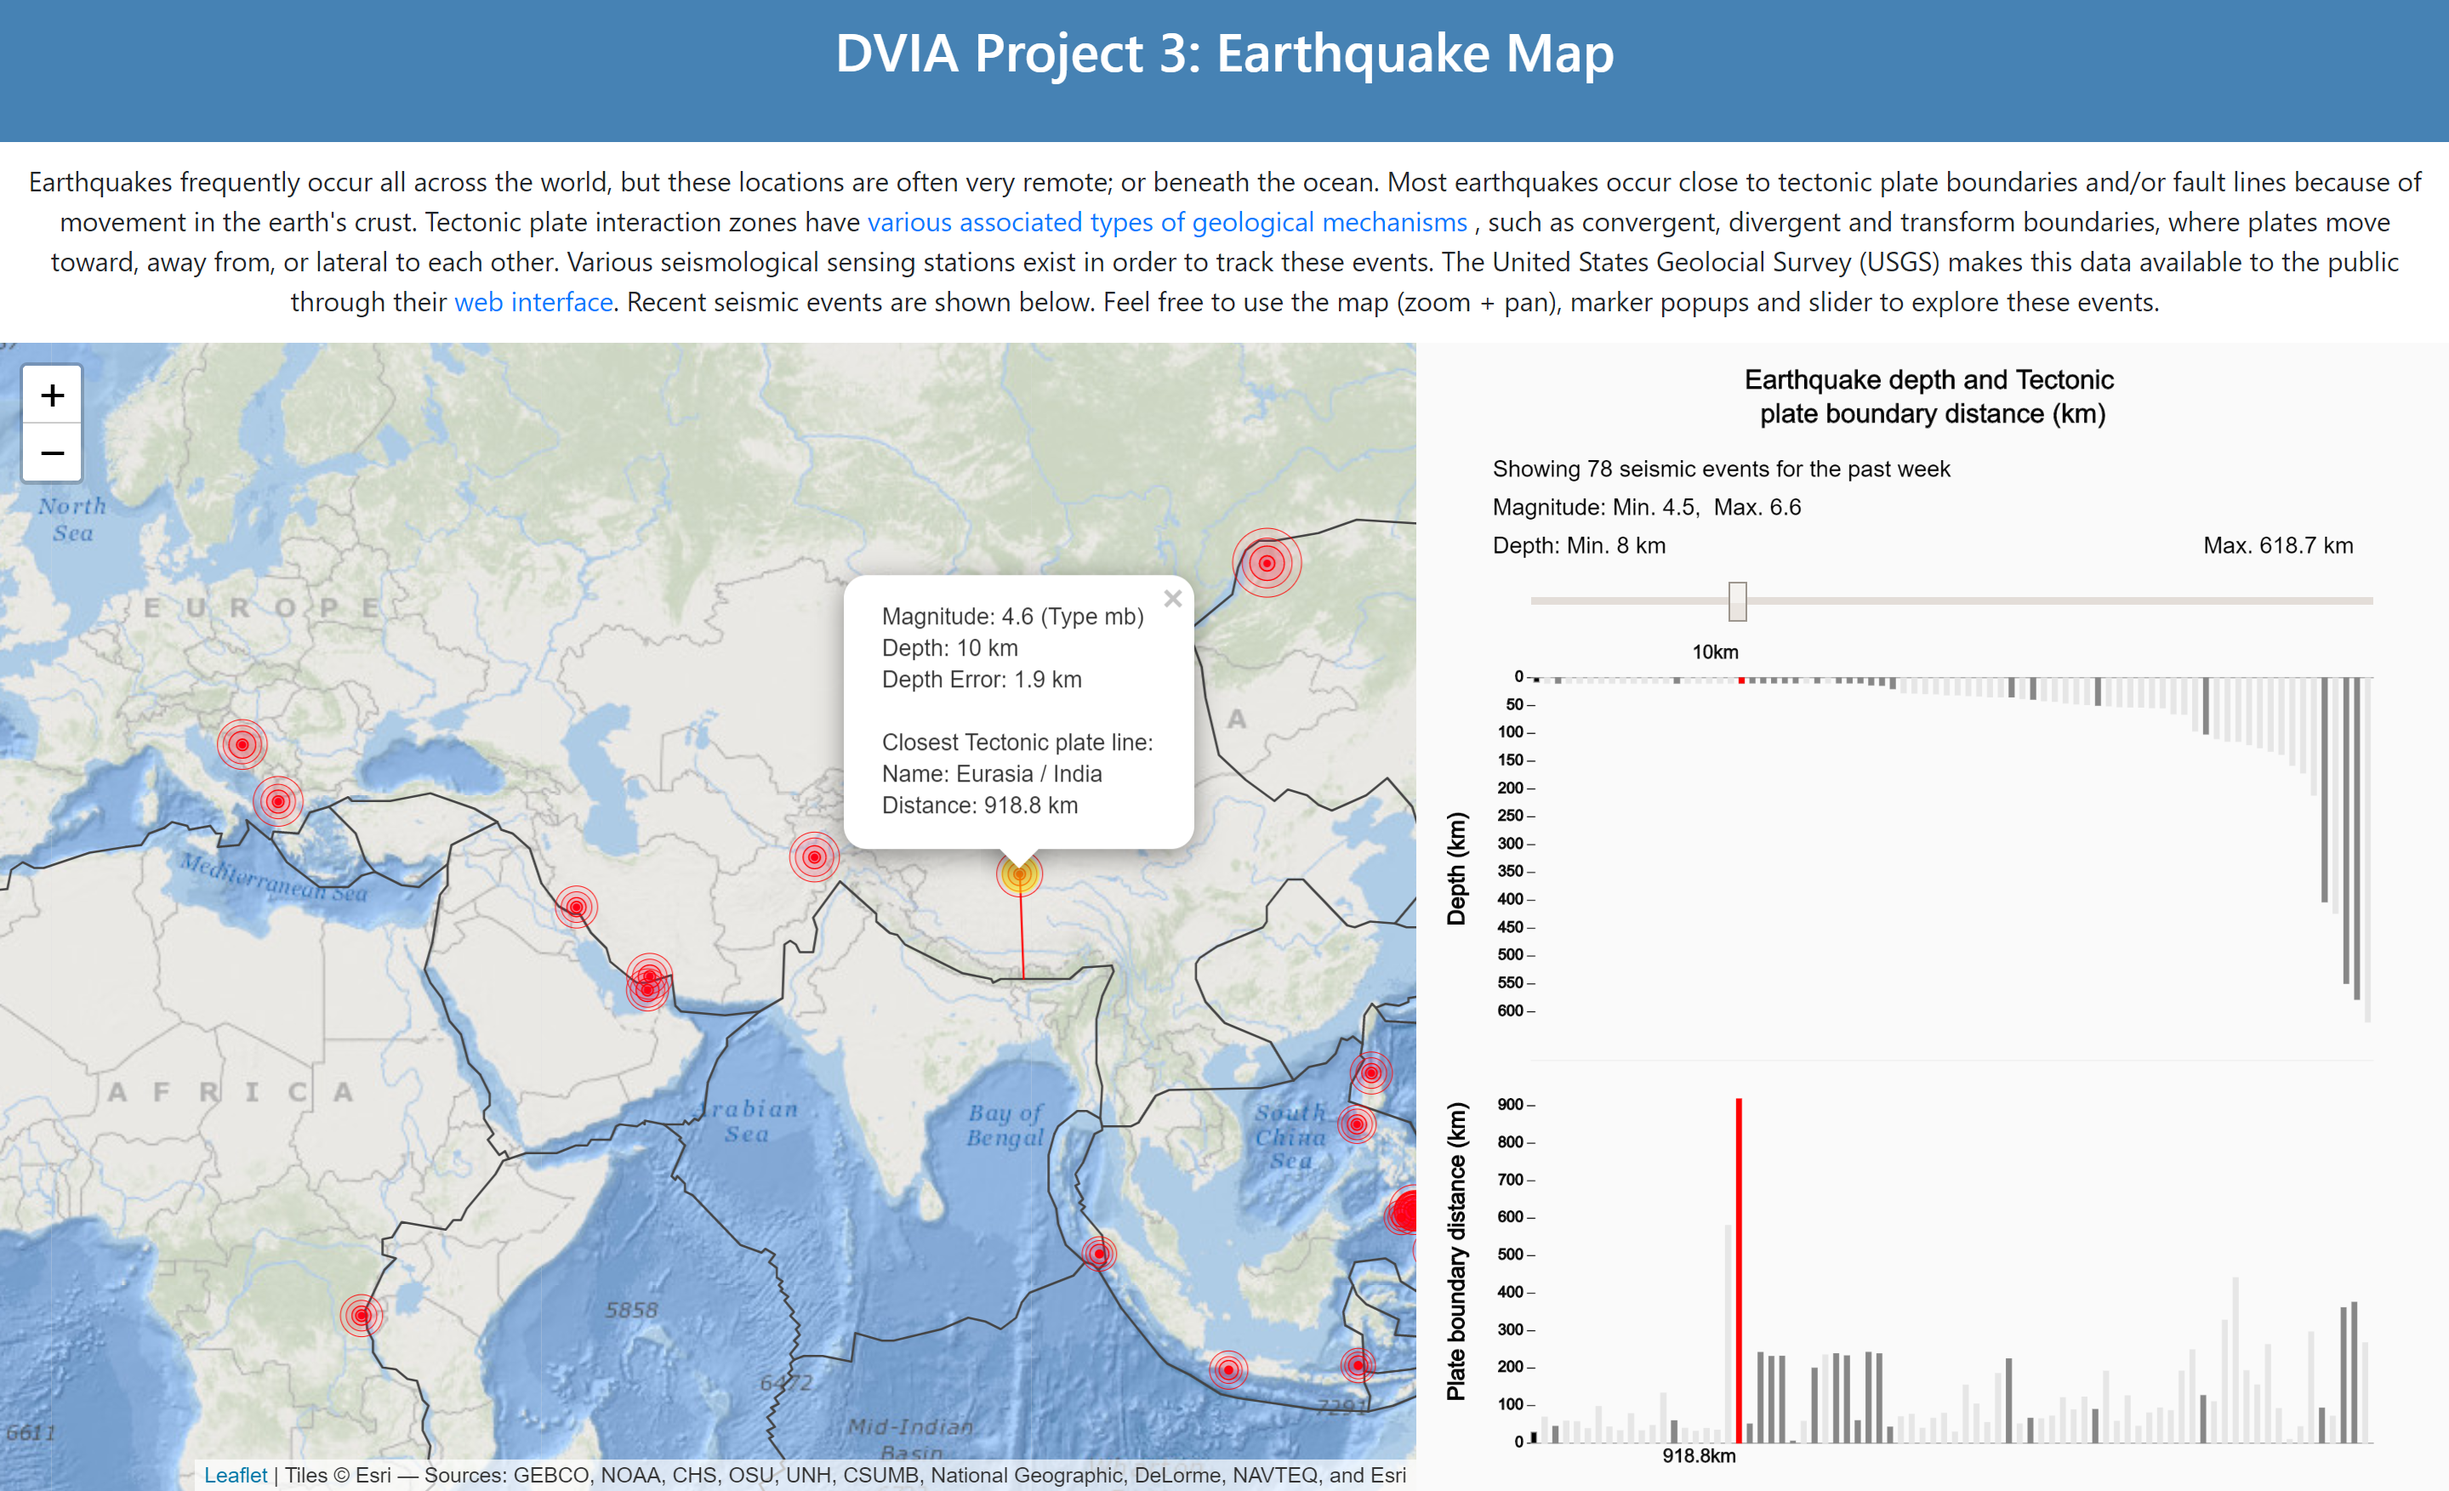
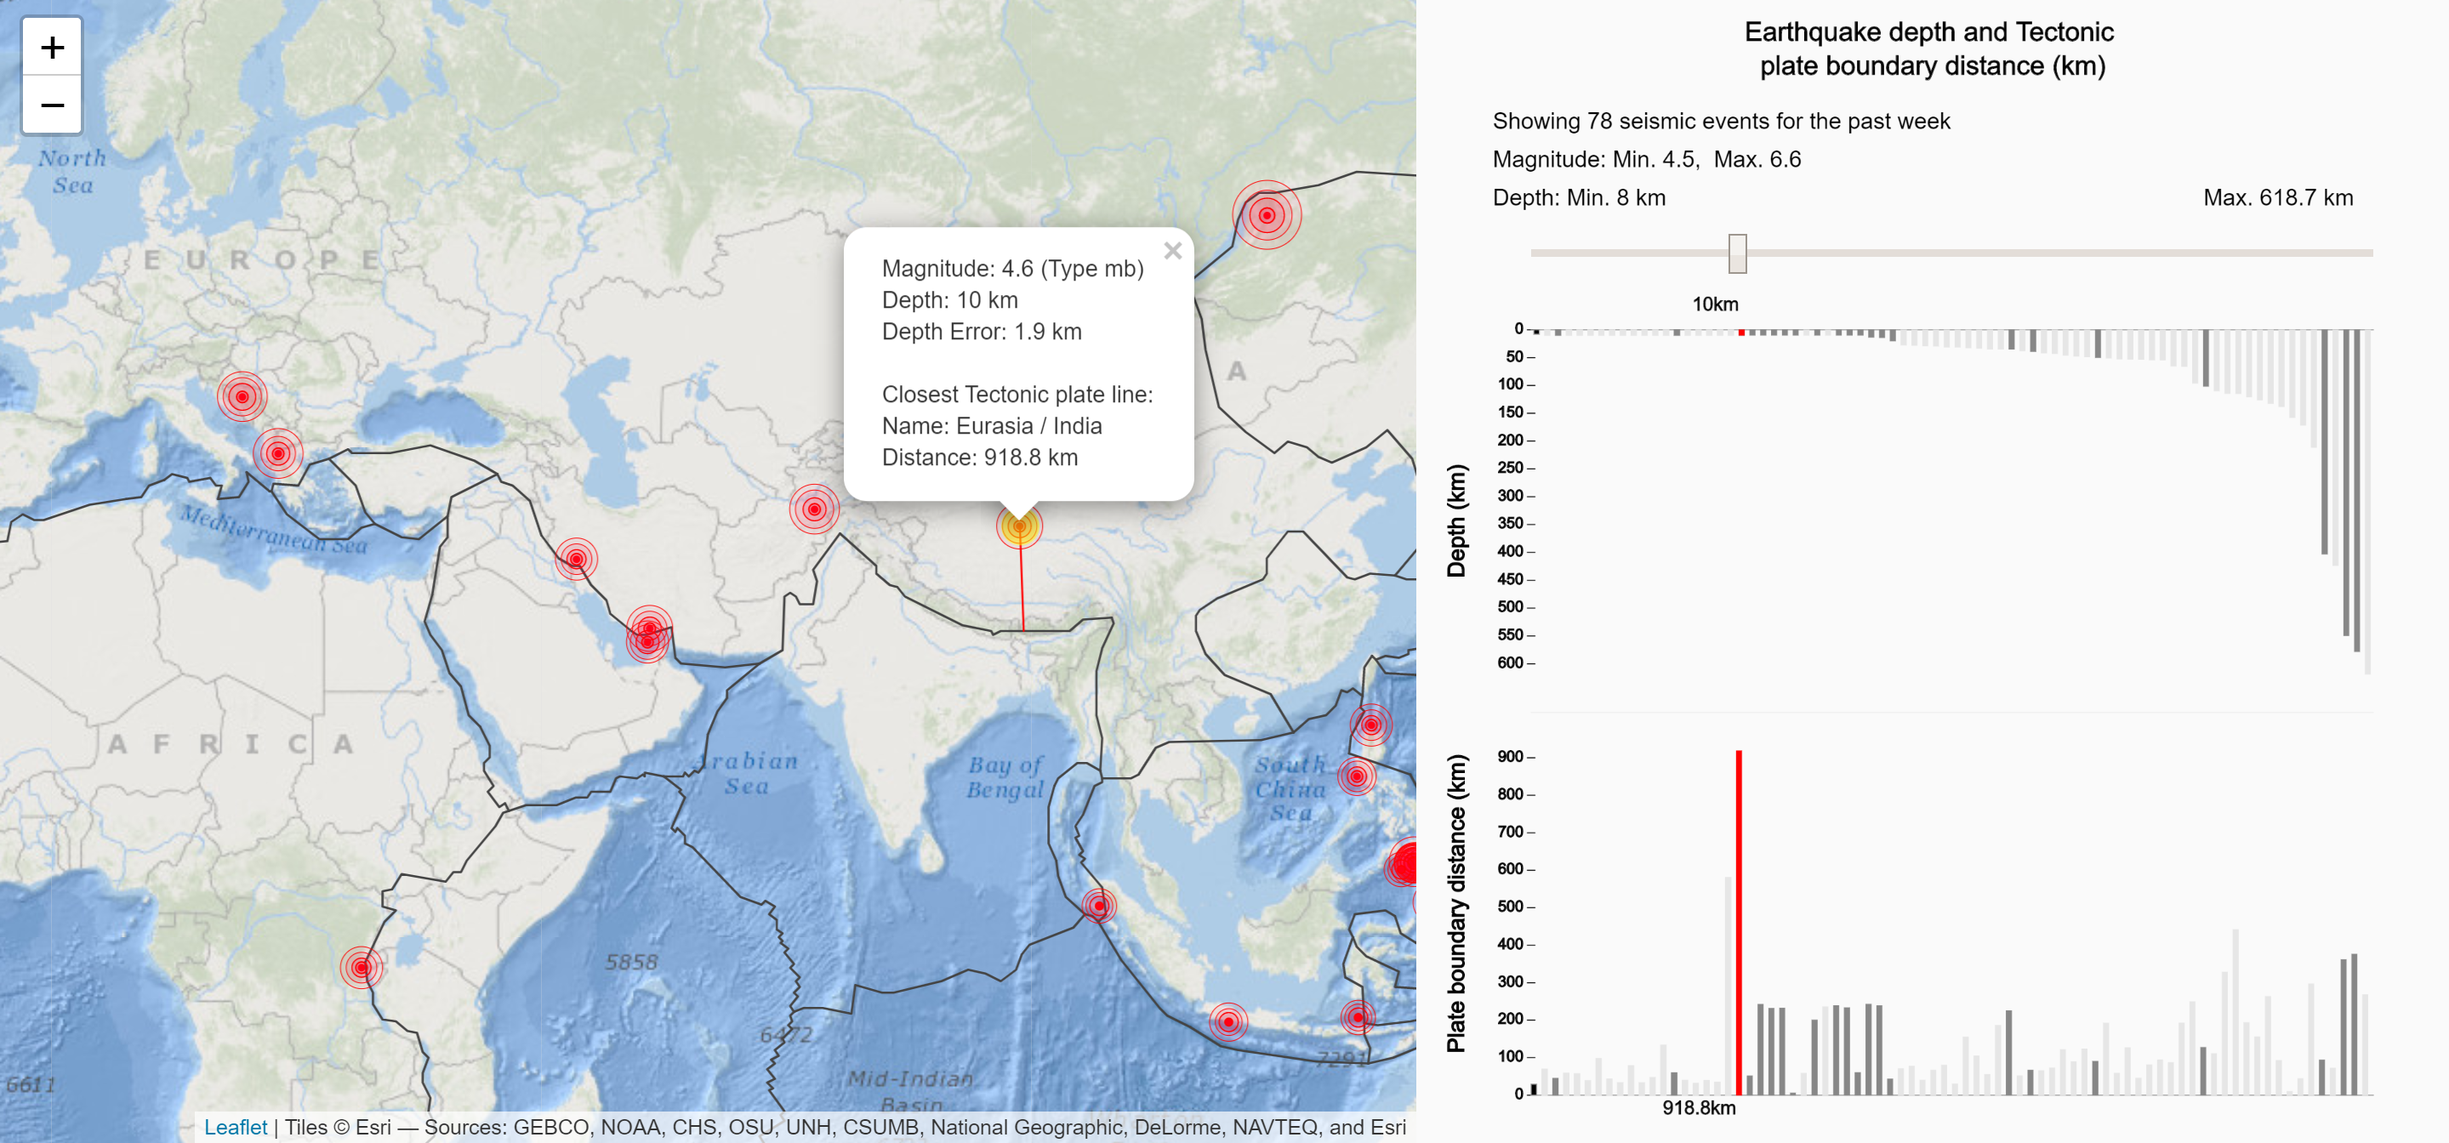
Final polishing

diff --git a/3.mapping-space/project-final/sketch.js b/3.mapping-space/project-final/sketch.js
@@ -8,8 +8,8 @@ var table;
 // var foldername = "../data/";
 // var foldername = "../data/2017/";
 // var foldername = "../data/2018/";
-var foldername = "../data/2019/";
-// var foldername = "https://earthquake.usgs.gov/earthquakes/feed/v1.0/summary/";
+// var foldername = "../data/2019/";
+var foldername = "https://earthquake.usgs.gov/earthquakes/feed/v1.0/summary/";
 // var filebegin = "all_";
 // var filebegin = "significant_";
 var filebegin = "4.5_";
@@ -303,7 +303,7 @@ function draw() {
   //        (tabinput, colName, x, y, plotwidth, plotheight, barfrac, offset, fillclr) 
   sliderSelectBar = val;
   // barplotColumn(table, "mag", xx, yy, ww, hh - 20, bb, 0.5, '#ddd', sliderSelectBar, keepmarker)
-  barplotFaults(table, "mag", xx, yy, ww, hh - 20, bb, 0, '#eee', sliderSelectBar, keepline, windowcorners)
+  barplotFaults(table, "mag", xx, yy, ww, hh - 20, bb, 0.5, '#eee', sliderSelectBar, keepline, windowcorners)
   yaxislabel("Plate boundary distance (km)", xx / 2, yy + hh - 20, ww, hh, 12)
 
 
@@ -326,8 +326,10 @@ function setupMap() {
     maxBounds: [
       //south west
       [-89.9, -220],
+      // [-500, -220],
       //north east
       [89.9, 220]
+      // [500, 220]
     ],
   }).setView([25, 0], 1.49);
 
@@ -725,7 +727,7 @@ function barplotColumn(tabinput, colName, x, y, plotwidth, plotheight, barfrac, 
       fill(0);
       textSize(10)
       strokeWeight(0.3)
-      textAlign(RIGHT)
+      textAlign(CENTER)
       text(value + "km", x + offset * barwidth, y - 10);
 
       // Change colors for the highlighted bar
@@ -865,8 +867,8 @@ function barplotFaults(tabinput, colName, x, y, plotwidth, plotheight, barfrac, 
       fill(0);
       textSize(10)
       strokeWeight(0.3)
-      textAlign(RIGHT)
-      text(round(value * 10) / 10 + "km", x + offset * barwidth, y + 10 + plotheight );
+      textAlign(CENTER)
+      text(round(value * 10) / 10 + "km", x + offset * barwidth, y + 16 + plotheight );
 
       // Change colors for the highlighted bar
       fill('red');

diff --git a/3.mapping-space/process/README.md b/3.mapping-space/process/README.md
@@ -41,8 +41,10 @@ more directly, the benefit of having a direct time history is lost.
 
 ![Concept3](StonesUnturned-concept3.jpg)
 
+-------------------------------------
 
-### Final Implimentation:
+
+### Final Implementation:
 --------------------
 
 The final implementation default view is shown below. The main map is shown on
@@ -55,8 +57,8 @@ secondly for the earhquake distance toward the closest tectonic plate boundary.
 
 
 
-It was decided to modify concept 1 by adding markers to the map that resemble
-seismic waves using concentric circles to create the visual effect of the
+It was decided to modify the initial marker concept by adding markers that resemble
+seismic waves. Concentric circles are used to create the visual effect of the
 vibrations circling out from the earthquake epicentre. The scale of the
 circle maximum diameter is mapped to the retinal variable of **size** with
 the base color of red to create a contrast to the background of the ocean. 
@@ -69,23 +71,28 @@ and show density of many that overlap on a given location.
 A primary focuspoint of the design is an interactive interface that allows the user
 to cycle through the individual events using a slider above the chart area.
 A slider was chosen instead of a mouseover/hover functionality to aid development
-and increase selection reliability.
+and increase selection reliability. Simple bar charts are used to aid in simplifying
+user interaction by highlighting bars in the top and bottom chart that 
+correspond to a single seismic event.
+
 
 ![Final](finalMainview2.PNG)
 
 A secondary filter was also built into the chart
 whereby the Map pan and zoom would result in highlighting 
 only bars that correspond to seismic events that are on the map view.
-
 Both the slider selection and map view selections were implemented by
 adding `IF` statements in the P5 draw loop to change the fill color of a bar
 when that bar corresponds to either the associated slider value and/or when it
 falls into the range of coordinates that are in the map window rectangle (inbetween
-the South-West and North-East corners). Since each of the bars has to be
+the South-West and North-East corners). 
+
+
+Since each of the bars has to be
 drawn in every draw loop irrespective of their color, only the fill color
-for that bar is changed based on the selection criteria of it being in the map
-window, outside the map window, or corrsponding to the slider selection.
- Currently the marker in the map view will follow the slider as part of
+for that bar is changed based has to be updated, where the selection criteria 
+consist of it being in the map window, outside the map window, or corrsponding to the slider selection.
+Currently the marker in the map view will follow the slider as part of
 Leaflet base functionality, however the slider does not follow the map click event.
 A future improvement could be to also bind the slider position to a clicked
 marker.
@@ -94,6 +101,29 @@ marker.
 
 
 Additional information is also made available to the user through a popup menu on each
-marker that contains the relevant information.
+marker that contains the relevant information, as well as the distance line toward
+the closest tectonic plate boundary. Since the highlighted marker and line need to dynamically
+update with the slider selection, the `L.icon` and and `L.polyline`
+is added only once in the setup function and then their latitude and longitude
+are updated in every draw loop at 10 frames/sec. The updating the marker properties
+rather than adding new ones and removing them is deemed more efficient, even though 
+an even better approach might be to use other Javascript methods to communicate inbetween
+leaflet and P5.
 
 ![Final](markers_popup.PNG)
+
+Seismic events with magnitude greater than 4.5 and only for the past week are loaded
+from the USGS site by constructing a filename string using different parameters
+for event size and historic timeframe.
+The charts are programmed to be able to handle any variation on the data,
+however when many events are present the bars could become to thin or too thick
+for a pleasant user experience. Hence, the default of events with magnitude greater
+than 4.5 for the past week is deemed most optimal.
+
+View for seismic events above 4.5 magnitude for the past day:
+
+![Final](finalMainview_day.PNG)
+
+View for seismic events above 4.5 magnitude for the past month:
+
+![Final](finalMainview_month.PNG)
